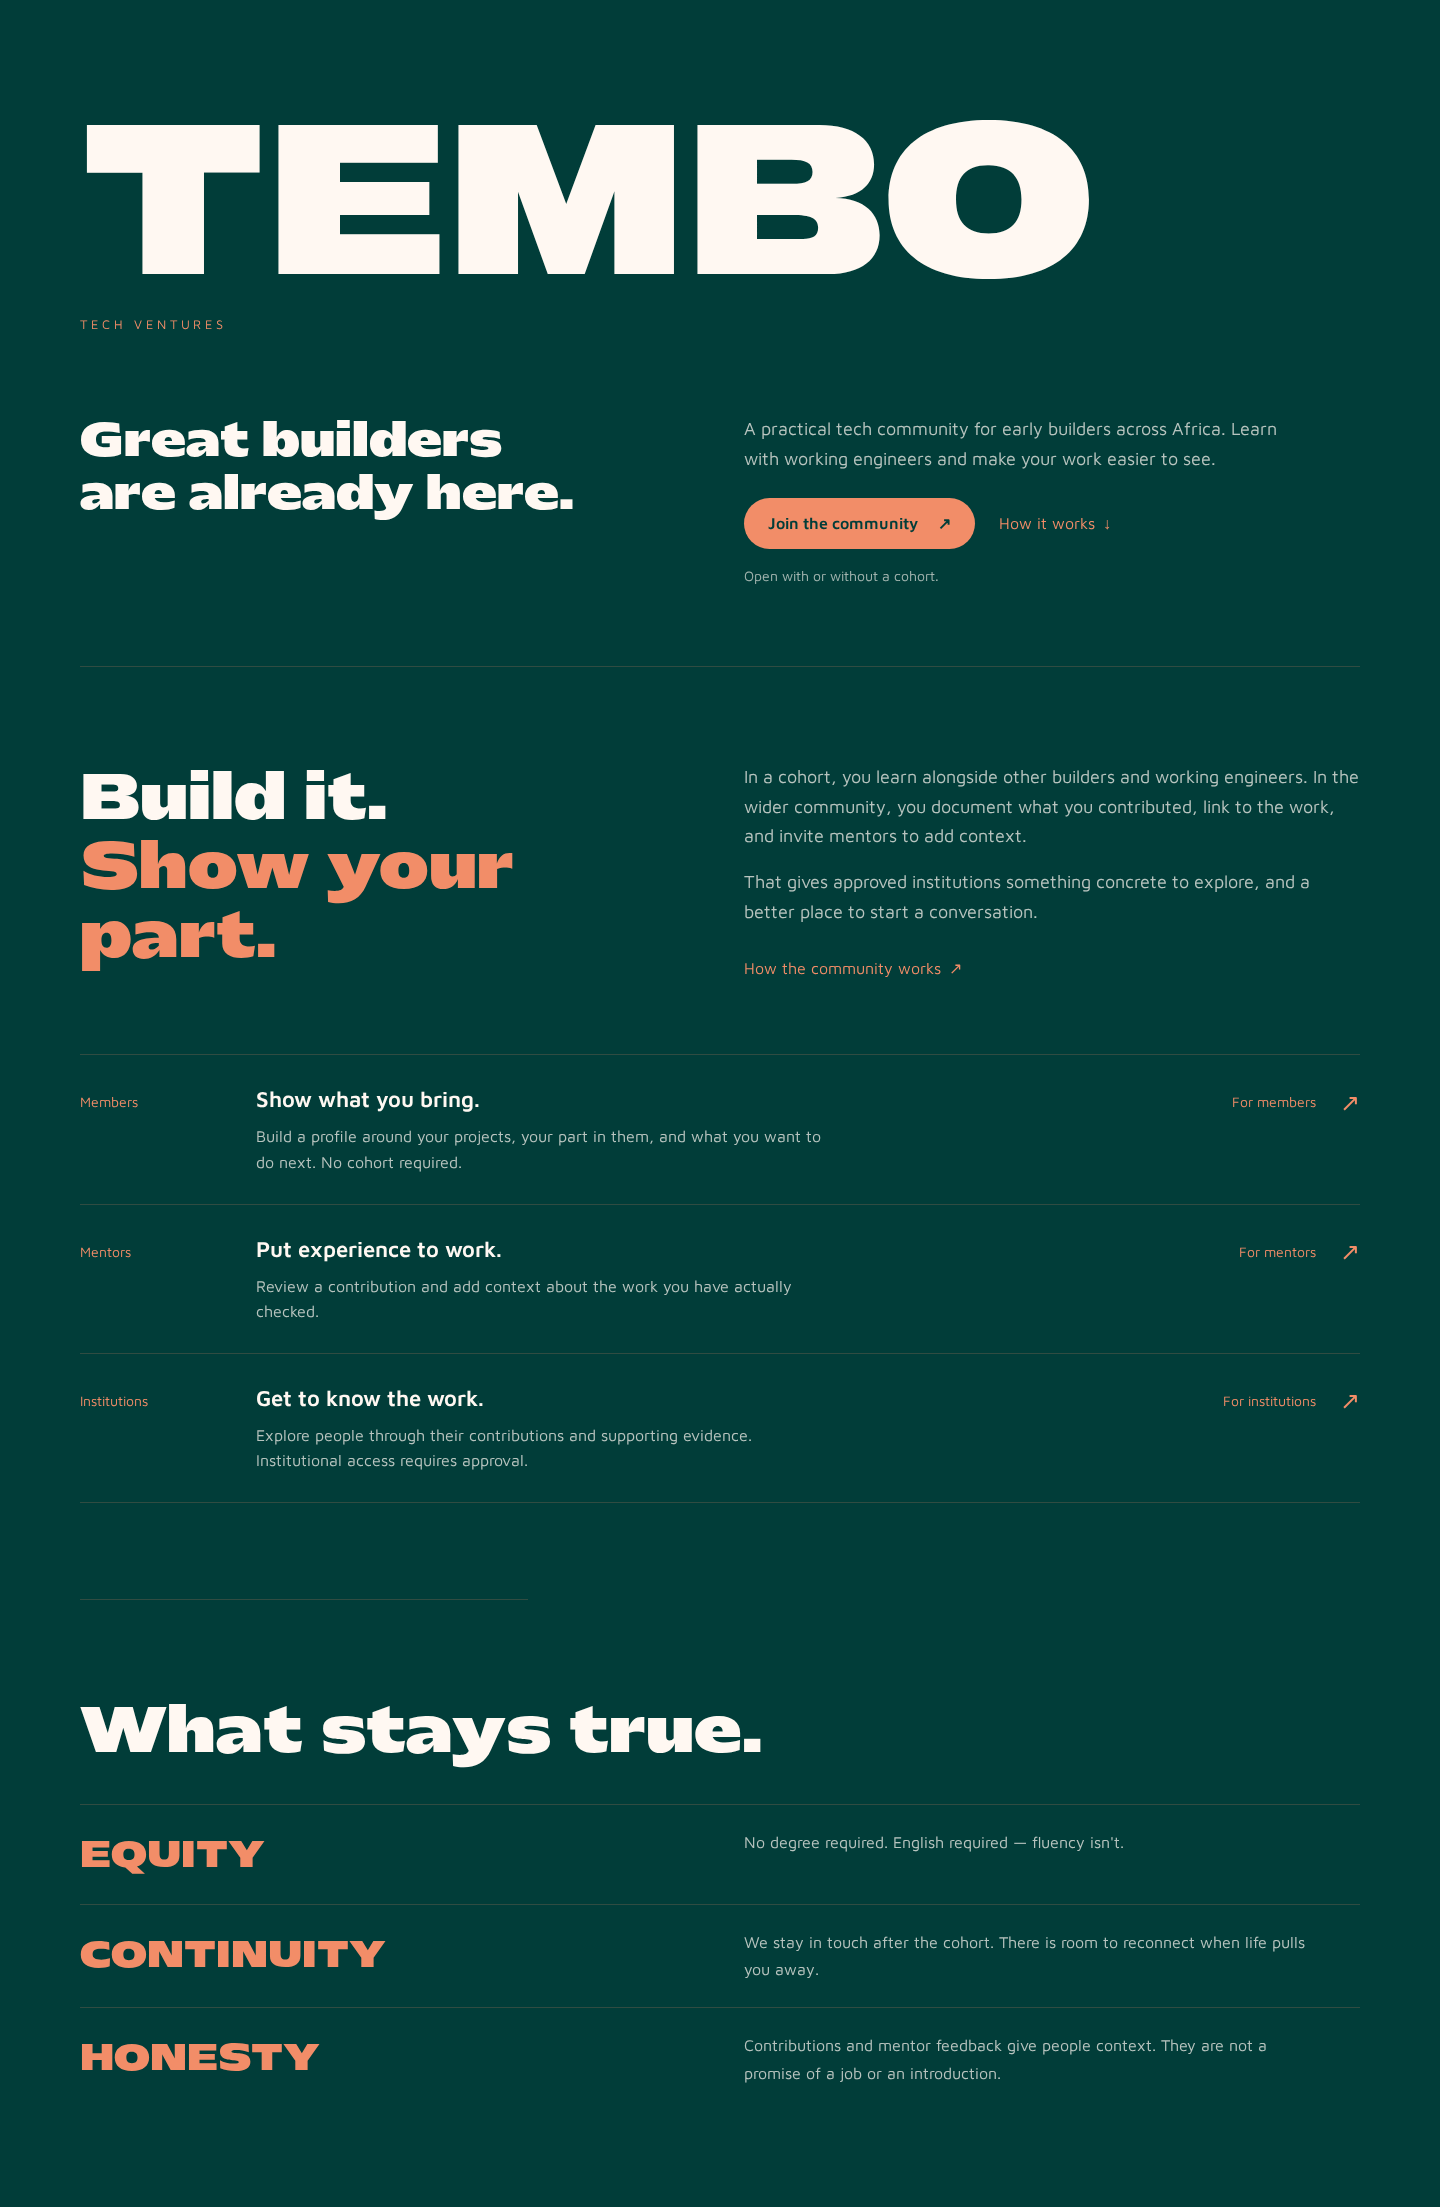
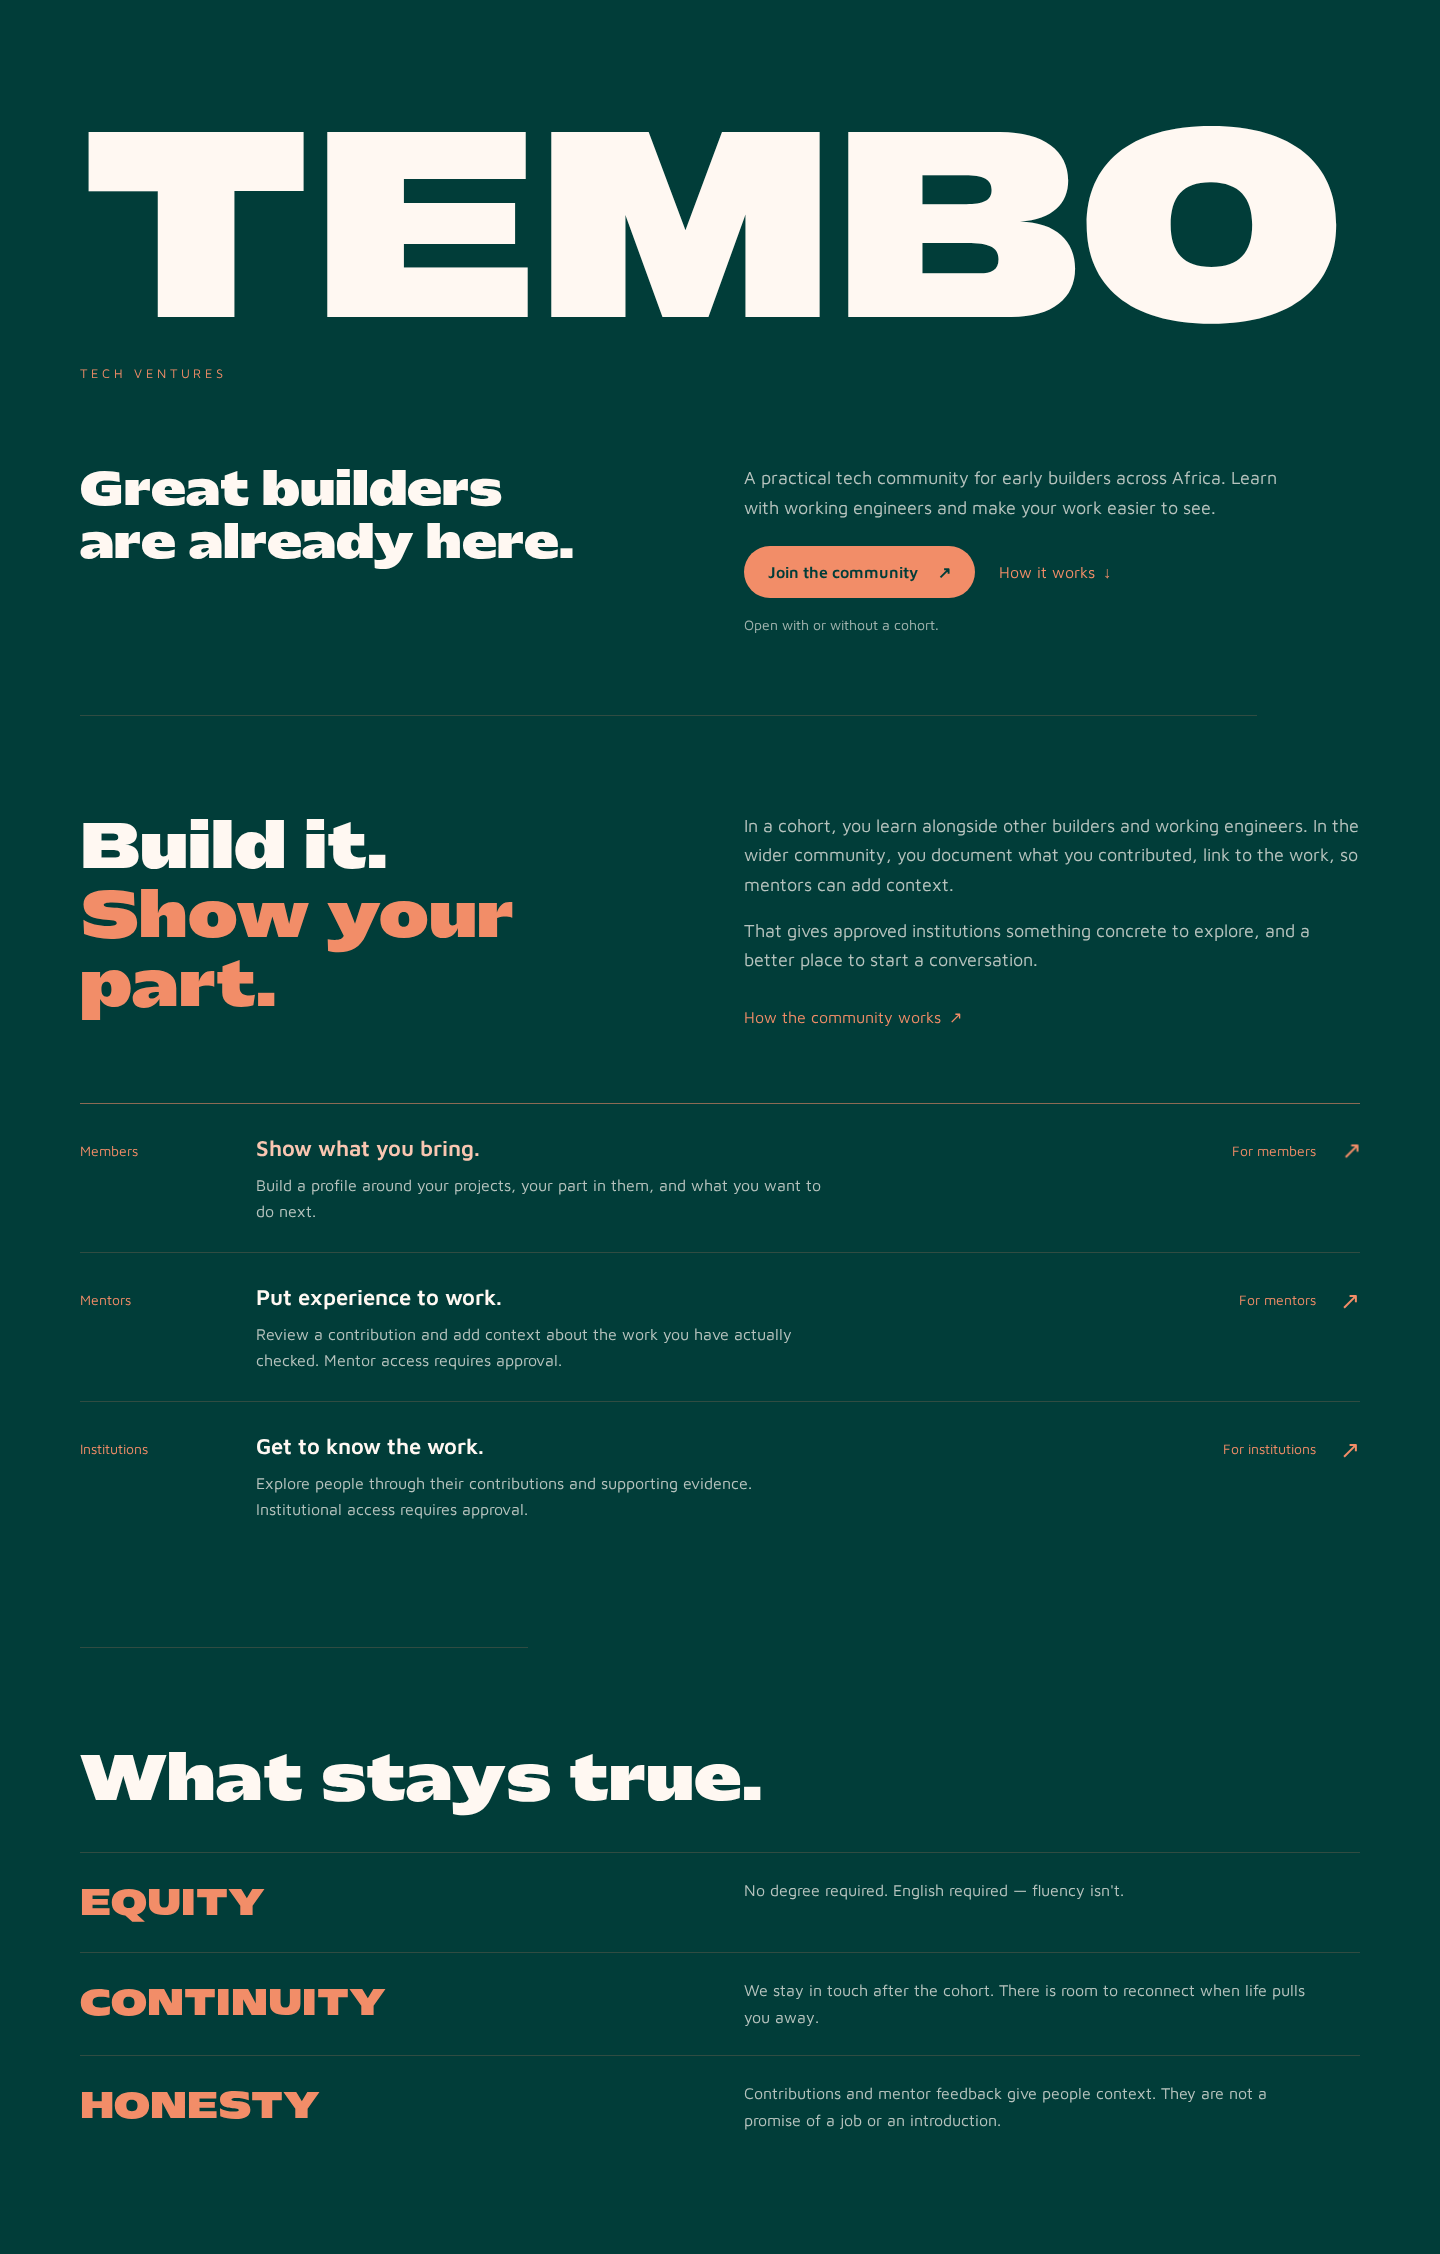
Refine homepage claims, empty states and scroll motion after review

diff --git a/web/src/components/homepage/PathwaysSection.tsx b/web/src/components/homepage/PathwaysSection.tsx
@@ -1,6 +1,6 @@
 const pathways = [
-  { audience: "Members", title: "Show what you bring.", copy: "Build a profile around your projects, your part in them, and what you want to do next. No cohort required.", href: "/community/members", link: "For members" },
-  { audience: "Mentors", title: "Put experience to work.", copy: "Review a contribution and add context about the work you have actually checked.", href: "/community/mentors", link: "For mentors" },
+  { audience: "Members", title: "Show what you bring.", copy: "Build a profile around your projects, your part in them, and what you want to do next.", href: "/community/members", link: "For members" },
+  { audience: "Mentors", title: "Put experience to work.", copy: "Review a contribution and add context about the work you have actually checked. Mentor access requires approval.", href: "/community/mentors", link: "For mentors" },
   { audience: "Institutions", title: "Get to know the work.", copy: "Explore people through their contributions and supporting evidence. Institutional access requires approval.", href: "/community/institutions", link: "For institutions" },
 ];
 
@@ -10,14 +10,14 @@ export default function PathwaysSection() {
       <div className="home-section-intro">
         <h2 id="home-how-heading" className="home-heading">Build it.<br /><span>Show your part.</span></h2>
         <div className="home-explanation">
-          <p>In a cohort, you learn alongside other builders and working engineers. In the wider community, you document what you contributed, link to the work, and invite mentors to add context.</p>
+          <p>In a cohort, you learn alongside other builders and working engineers. In the wider community, you document what you contributed, link to the work, so mentors can add context.</p>
           <p>That gives approved institutions something concrete to explore, and a better place to start a conversation.</p>
           <a className="home-text-link" href="/community">How the community works <span aria-hidden="true">↗</span></a>
         </div>
       </div>
       <nav aria-label="Find your place at Tembo" className="home-pathways">
         {pathways.map((pathway) => (
-          <a key={pathway.href} href={pathway.href} className="home-pathway">
+          <a key={pathway.href} href={pathway.href} className="home-pathway" aria-label={pathway.link}>
             <span className="home-audience">{pathway.audience}</span>
             <span className="home-pathway-body"><span className="home-pathway-title">{pathway.title}</span><span className="home-pathway-copy">{pathway.copy}</span></span>
             <span className="home-pathway-link">{pathway.link}<span className="home-arrow" aria-hidden="true">↗</span></span>

diff --git a/web/src/components/homepage/homepage.css b/web/src/components/homepage/homepage.css
@@ -1,7 +1,7 @@
 .home-introduction { color: var(--color-ink-primary); }
 .home-container { width: min(100% - 2rem, 80rem); margin-inline: auto; }
 .home-hero { container-type: inline-size; padding-block: clamp(3rem, 7vw, 7rem) 4rem; }
-.home-wordmark { font-family: var(--font-heading); letter-spacing: var(--tracking-display); margin: 0; font-size: clamp(2rem, 14vw, 12rem); font-size: 15.5cqw; line-height: 1; }
+.home-wordmark { font-family: var(--font-heading); letter-spacing: var(--tracking-display); margin: 0; font-size: clamp(2rem, 14vw, 12rem); font-size: 19.3cqw; line-height: 1; }
 .home-signature { margin-top: 1rem; font-size: 0.8rem; letter-spacing: 0.3em; text-transform: uppercase; color: var(--color-primary); }
 .home-hero-bottom { display: grid; gap: 2rem; margin-top: clamp(2.5rem, 6vw, 5rem); }
 .home-lead { font-family: var(--font-heading); font-size: clamp(1.5rem, 3.4vw, 2.75rem); line-height: 1.2; letter-spacing: var(--tracking-heading); }
@@ -24,7 +24,6 @@
 .home-explanation a { margin-top: 1.25rem; font-size: 1rem; }
 .home-pathways { margin-top: 3rem; }
 .home-pathway { display: grid; gap: 0.75rem; padding: 1.75rem 0; border-top: 1px solid var(--color-rule); }
-.home-pathway:last-child { border-bottom: 1px solid var(--color-rule); }
 .home-audience { color: var(--color-primary); font-size: 0.875rem; }
 .home-pathway-body { display: block; min-width: 0; }
 .home-pathway-title { display: block; font-size: 1.375rem; font-weight: 600; }
@@ -58,7 +57,8 @@
   .home-button, .home-text-link, .home-pathway, .home-pathway-title { transition: color 180ms, background-color 180ms, border-color 180ms, text-decoration-color 180ms; }
   .home-pathway:hover .home-arrow, .home-pathway:focus-visible .home-arrow { transform: translate(3px, -3px); }
   @supports (animation-timeline: view()) {
-    .home-section::before { animation: home-rule linear both; animation-timeline: view(); animation-range: entry 0% entry 100%; }
+    .home-section { view-timeline-name: --home-section; view-timeline-axis: block; }
+    .home-section::before { animation: home-rule linear both; animation-timeline: --home-section; animation-range: entry 0% entry 100%; }
   }
 }
 @keyframes home-arrive { from { opacity: 0.8; transform: translateY(12px); } to { opacity: 1; transform: none; } }

diff --git a/web/src/components/homepage/values.test.tsx b/web/src/components/homepage/values.test.tsx
@@ -2,6 +2,7 @@ import { readFileSync } from "node:fs";
 import React from "react";
 import { renderToStaticMarkup } from "react-dom/server";
 import { describe, expect, it } from "vitest";
+import BuildersSection from "./BuildersSection";
 import HomeIntroduction from "./HomeIntroduction";
 import { VALUES } from "./values";
 
@@ -38,6 +39,8 @@ describe("simplified homepage", () => {
       expect(html.split(`href="/community/${audience}"`)).toHaveLength(2);
     }
     expect(html).toContain("Institutional access requires approval.");
+    expect(html).toContain("Mentor access requires approval.");
+    expect(html).not.toContain("invite mentors");
     expect(html).toContain("work you have actually checked");
     expect(html).toContain('aria-label="Find your place at Tembo"');
   });
@@ -55,7 +58,27 @@ describe("simplified homepage", () => {
     expect(route).not.toContain("&sect;");
     const humans = readFileSync(new URL("./HumansSection.astro", import.meta.url), "utf8");
     expect(humans).toContain('id="humans"');
-    expect(humans).toContain('aria-label={`Meet ${card.name}`}');
+    expect(humans).toContain("<BuildersSection profiles={profileCards}");
     expect(humans).not.toMatch(/profiles land|&sect;/);
+  });
+});
+
+
+describe("homepage builders", () => {
+  it("omits an empty builder section instead of promising future profiles", () => {
+    expect(renderToStaticMarkup(<BuildersSection profiles={[]} />)).toBe("");
+  });
+  it("renders eligible supplied profiles with named links and image or initials", () => {
+    const html = renderToStaticMarkup(<BuildersSection profiles={[
+      { handle: "fictional-amina", name: "Amina Example", image: null, initials: "AE", label: "Example cohort" },
+      { handle: "fictional-kamau", name: "Kamau Example", image: "/example.png", initials: "KE", label: "" },
+    ]} />);
+    expect(html).toContain("Meet the builders.");
+    expect(html).toContain('href="/talent/fictional-amina"');
+    expect(html).toContain('aria-label="Meet Amina Example"');
+    expect(html).toContain(">AE</span>");
+    expect(html).toContain('src="/example.png"');
+    expect(html).toContain('loading="lazy"');
+    expect(html).toContain('href="/talent"');
   });
 });

diff --git a/web/src/components/homepage/BuildersSection.tsx b/web/src/components/homepage/BuildersSection.tsx
@@ -1,0 +1,39 @@
+interface Builder {
+  handle: string;
+  name: string;
+  image: string | null;
+  initials: string;
+  label: string;
+}
+
+/** Only eligible public identities are supplied by HumansSection's server query. */
+export default function BuildersSection({ profiles }: { profiles: Builder[] }) {
+  if (profiles.length === 0) return null;
+  return (
+    <section aria-labelledby="humans-heading" className="relative px-4 py-16 sm:px-8 md:py-20">
+      <div className="mx-auto max-w-7xl">
+        <div className="mb-10 flex flex-col gap-4 md:flex-row md:items-end md:justify-between">
+          <h2 id="humans-heading" className="font-heading tracking-heading text-3xl text-ink-primary md:text-5xl">Meet the builders.</h2>
+          <a href="/talent" className="inline-flex min-h-11 items-center font-body text-primary underline underline-offset-4">Explore the builder directory →</a>
+        </div>
+        <ul className="grid grid-cols-2 gap-4 sm:gap-6 md:grid-cols-4">
+          {profiles.map((card) => (
+            <li key={card.handle} className="space-y-3">
+              <a href={`/talent/${card.handle}`} className="block" aria-label={`Meet ${card.name}`}>
+                <div className="relative aspect-[4/5] overflow-hidden border border-[color:var(--color-rule)]" style={{ backgroundColor: "var(--color-bg-raised)" }}>
+                  {card.image ? <img src={card.image} alt="" className="h-full w-full object-cover" loading="lazy" /> : (
+                    <div className="flex h-full w-full items-center justify-center">
+                      <span className="font-heading tracking-display text-primary" style={{ fontSize: "clamp(3rem, 7vw, 6rem)" }}>{card.initials}</span>
+                    </div>
+                  )}
+                </div>
+              </a>
+              <p className="font-body text-sm font-semibold text-ink-primary">{card.name}</p>
+              {card.label && <p className="font-body text-xs font-semibold uppercase tracking-[0.24em] text-ink-muted">{card.label}</p>}
+            </li>
+          ))}
+        </ul>
+      </div>
+    </section>
+  );
+}

diff --git a/web/e2e/homepage-values.browser.ts b/web/e2e/homepage-values.browser.ts
@@ -66,3 +66,15 @@ test("content and navigation survive disabled JavaScript", async ({ page }) => {
   await expect(staticPage.getByRole("heading", { name: "HONESTY", exact: true })).toBeVisible();
   await context.close();
 });
+
+test("section divider draws across a useful scroll distance", async ({ page }) => {
+  await page.setViewportSize({ width: 1440, height: 900 });
+  await page.goto("/homepage-values.html");
+  const section = page.locator("#values");
+  const scale = () => section.evaluate((el) => new DOMMatrixReadOnly(getComputedStyle(el, "::before").transform).a);
+  const top = await section.evaluate((el) => el.getBoundingClientRect().top + scrollY);
+  await page.evaluate((y) => scrollTo(0, y), top - 850);
+  await expect.poll(scale).toBeLessThan(0.6);
+  await page.evaluate((y) => scrollTo(0, y), top - 450);
+  await expect.poll(scale).toBeGreaterThan(0.8);
+});

diff --git a/docs/operations.md b/docs/operations.md
@@ -221,3 +221,19 @@ Pagination, denial or incomplete state is a telemetry gap, not proof that the
 container stopped. Output contains only the script's sanitized state receipt;
 no credentials or raw provider errors. This is a one-shot diagnostic, not a
 recurring monitor or a relaxation of R2 teardown guards.
+
+### Post-PR171 staging-only delivery (2026-10-26)
+
+The homepage simplification is explicitly authorized for shared staging, without
+production merge. Since PR171 is merged, `Cloudflare Staging` accepts an optional
+`deploy_pr` for `action=deploy` on that PR's branch. Before releasing staging
+credentials, preflight verifies the current open same-repository PR targets main
+and its head equals both the exact dispatched branch and full `expected_sha`.
+Production branches, tags, stale/closed/foreign PRs and overrides for fixture or
+diagnostic actions are rejected. Blank input retains the historical PR171 pin.
+The staging domain, environment and non-cancelling concurrency group are unchanged.
+Coordinate the sole staging slot and reconcile current runs/head before dispatch;
+verify live identity, desktop/mobile journeys and logs afterwards. Preserve
+current authorized feature flags and retained data; this path does not authorize
+credential changes, demo expiry extensions or a production release. See
+[staging delivery](hackathon-staging-delivery.md#post-hackathon-staging-only-changes).

diff --git a/docs/homepage-elegance/README.md b/docs/homepage-elegance/README.md
@@ -38,3 +38,9 @@ Staging is the requested delivery target. Production merge requires a separate
 owner release decision. The staging dispatch now accepts an optional deploy-only
 PR number after PR171 merged, with exact open same-repository PR/branch/SHA checks
 unchanged; fixture/diagnostic actions retain their previous pinned scope.
+
+Opus's implementation review prompted explicit mentor approval wording, removal
+of implied mentor invitations, a named section scroll timeline (tested across a
+useful scroll distance), one divider between sections, and omission of an empty
+builder section. The final browser suite contains ten cases. GSAP was used only
+by the removed homepage components; package/lock changes remove only that entry.
